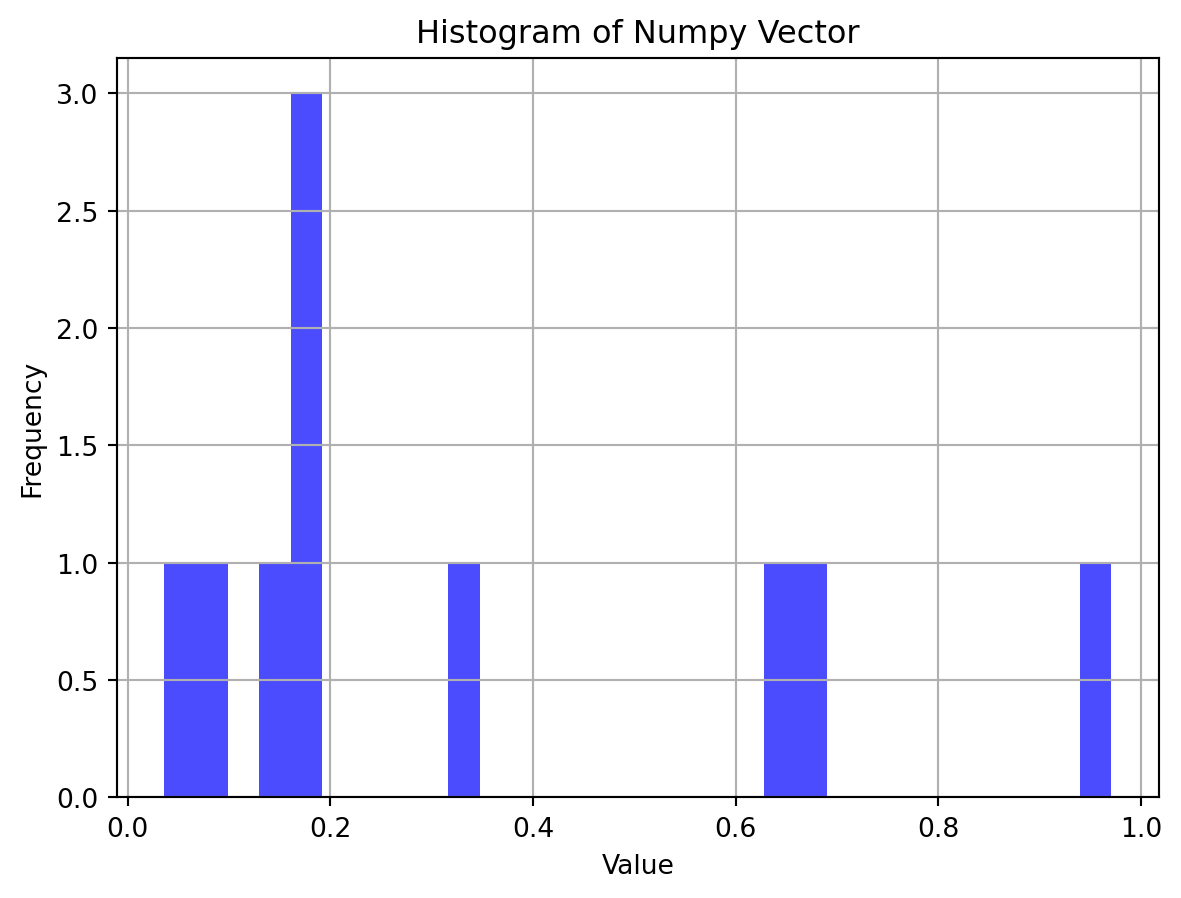
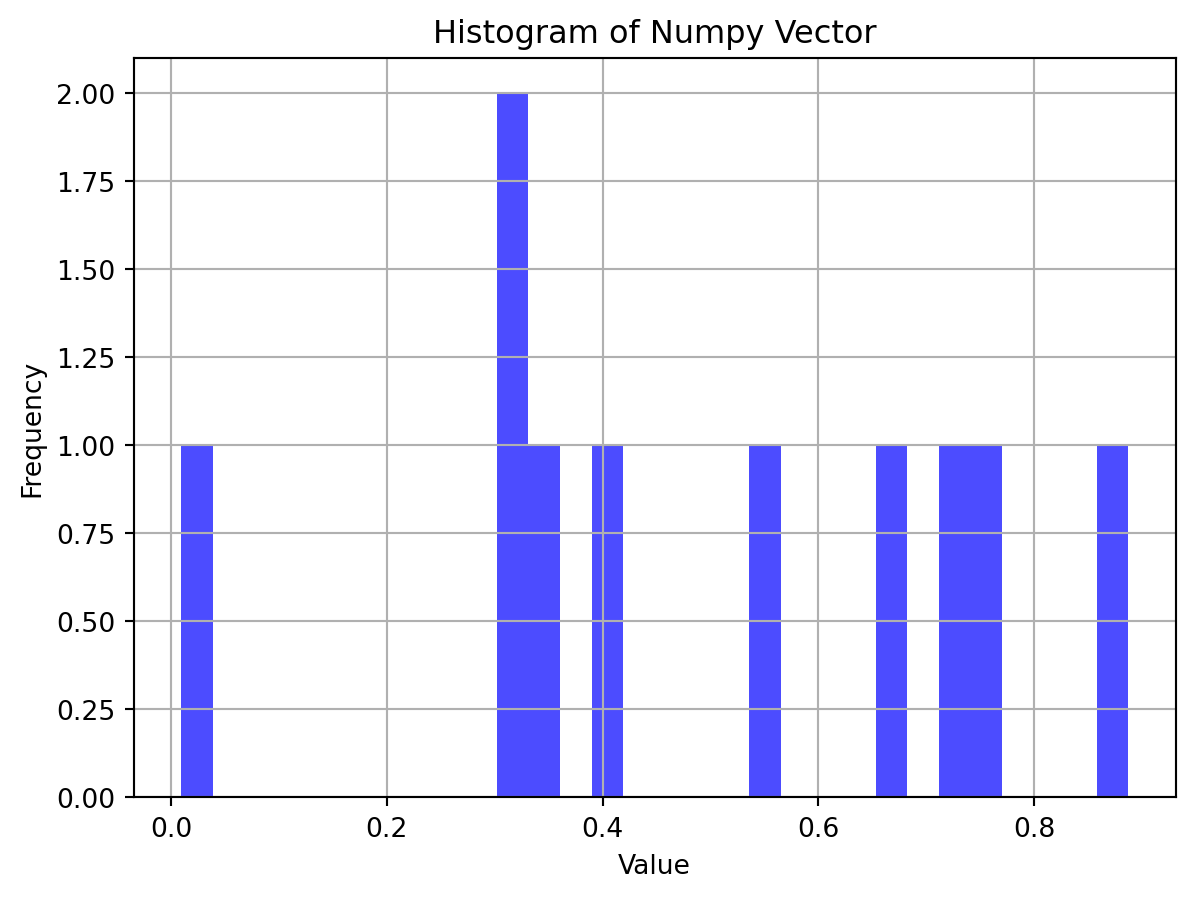
hw5

diff --git a/docs/posts/hw5/index.html b/docs/posts/hw5/index.html
@@ -6,8 +6,10 @@
 
 <meta name="viewport" content="width=device-width, initial-scale=1.0, user-scalable=yes">
 
+<meta name="author" content="권효은">
+<meta name="dcterms.date" content="2024-07-30">
 
-<title>testwebsite</title>
+<title>testwebsite - 숙제5</title>
 <style>
 code{white-space: pre-wrap;}
 span.smallcaps{font-variant: small-caps;}
@@ -57,21 +59,22 @@ pre > code.sourceCode > span > a:first-child::before { text-decoration: underlin
 </style>
 
 
-<script src="site_libs/quarto-nav/quarto-nav.js"></script>
-<script src="site_libs/quarto-nav/headroom.min.js"></script>
-<script src="site_libs/clipboard/clipboard.min.js"></script>
-<script src="site_libs/quarto-search/autocomplete.umd.js"></script>
-<script src="site_libs/quarto-search/fuse.min.js"></script>
-<script src="site_libs/quarto-search/quarto-search.js"></script>
-<meta name="quarto:offset" content="./">
-<script src="site_libs/quarto-html/quarto.js"></script>
-<script src="site_libs/quarto-html/popper.min.js"></script>
-<script src="site_libs/quarto-html/tippy.umd.min.js"></script>
-<link href="site_libs/quarto-html/tippy.css" rel="stylesheet">
-<link href="site_libs/quarto-html/quarto-syntax-highlighting.css" rel="stylesheet" id="quarto-text-highlighting-styles">
-<script src="site_libs/bootstrap/bootstrap.min.js"></script>
-<link href="site_libs/bootstrap/bootstrap-icons.css" rel="stylesheet">
-<link href="site_libs/bootstrap/bootstrap.min.css" rel="stylesheet" id="quarto-bootstrap" data-mode="light">
+<script src="../../site_libs/quarto-nav/quarto-nav.js"></script>
+<script src="../../site_libs/quarto-nav/headroom.min.js"></script>
+<script src="../../site_libs/clipboard/clipboard.min.js"></script>
+<script src="../../site_libs/quarto-search/autocomplete.umd.js"></script>
+<script src="../../site_libs/quarto-search/fuse.min.js"></script>
+<script src="../../site_libs/quarto-search/quarto-search.js"></script>
+<meta name="quarto:offset" content="../../">
+<script src="../../site_libs/quarto-html/quarto.js"></script>
+<script src="../../site_libs/quarto-html/popper.min.js"></script>
+<script src="../../site_libs/quarto-html/tippy.umd.min.js"></script>
+<script src="../../site_libs/quarto-html/anchor.min.js"></script>
+<link href="../../site_libs/quarto-html/tippy.css" rel="stylesheet">
+<link href="../../site_libs/quarto-html/quarto-syntax-highlighting.css" rel="stylesheet" id="quarto-text-highlighting-styles">
+<script src="../../site_libs/bootstrap/bootstrap.min.js"></script>
+<link href="../../site_libs/bootstrap/bootstrap-icons.css" rel="stylesheet">
+<link href="../../site_libs/bootstrap/bootstrap.min.css" rel="stylesheet" id="quarto-bootstrap" data-mode="light">
 <script id="quarto-search-options" type="application/json">{
   "location": "navbar",
   "copy-button": false,
@@ -101,17 +104,17 @@ pre > code.sourceCode > span > a:first-child::before { text-decoration: underlin
 }</script>
 
 
-<link rel="stylesheet" href="styles.css">
+<link rel="stylesheet" href="../../styles.css">
 </head>
 
-<body class="nav-fixed fullcontent">
+<body class="nav-fixed">
 
 <div id="quarto-search-results"></div>
-  <header id="quarto-header" class="headroom fixed-top">
+  <header id="quarto-header" class="headroom fixed-top quarto-banner">
     <nav class="navbar navbar-expand-lg " data-bs-theme="dark">
       <div class="navbar-container container-fluid">
       <div class="navbar-brand-container mx-auto">
-    <a class="navbar-brand" href="./index.html">
+    <a class="navbar-brand" href="../../index.html">
     <span class="navbar-title">testwebsite</span>
     </a>
   </div>
@@ -122,15 +125,15 @@ pre > code.sourceCode > span > a:first-child::before { text-decoration: underlin
           <div class="collapse navbar-collapse" id="navbarCollapse">
             <ul class="navbar-nav navbar-nav-scroll me-auto">
   <li class="nav-item">
-    <a class="nav-link active" href="./index.html" aria-current="page"> 
+    <a class="nav-link" href="../../index.html"> 
 <span class="menu-text">Home</span></a>
   </li>  
   <li class="nav-item">
-    <a class="nav-link" href="./about.html"> 
+    <a class="nav-link" href="../../about.html"> 
 <span class="menu-text">About</span></a>
   </li>  
   <li class="nav-item">
-    <a class="nav-link" href="./blog.html"> 
+    <a class="nav-link" href="../../blog.html"> 
 <span class="menu-text">Blog</span></a>
   </li>  
 </ul>
@@ -141,42 +144,125 @@ pre > code.sourceCode > span > a:first-child::before { text-decoration: underlin
     </nav>
 </header>
 <!-- content -->
-<div id="quarto-content" class="quarto-container page-columns page-rows-contents page-layout-article page-navbar">
+<header id="title-block-header" class="quarto-title-block default page-columns page-full">
+  <div class="quarto-title-banner page-columns page-full">
+    <div class="quarto-title column-body">
+      <h1 class="title">숙제5</h1>
+                                <div class="quarto-categories">
+                <div class="quarto-category">bigdata</div>
+              </div>
+                  </div>
+  </div>
+    
+  
+  <div class="quarto-title-meta">
+
+      <div>
+      <div class="quarto-title-meta-heading">Author</div>
+      <div class="quarto-title-meta-contents">
+               <p>권효은 </p>
+            </div>
+    </div>
+      
+      <div>
+      <div class="quarto-title-meta-heading">Published</div>
+      <div class="quarto-title-meta-contents">
+        <p class="date">July 30, 2024</p>
+      </div>
+    </div>
+    
+      
+    </div>
+    
+  
+  </header><div id="quarto-content" class="quarto-container page-columns page-rows-contents page-layout-article page-navbar">
 <!-- sidebar -->
 <!-- margin-sidebar -->
-    
+    <div id="quarto-margin-sidebar" class="sidebar margin-sidebar">
+        <nav id="TOC" role="doc-toc" class="toc-active">
+    <h2 id="toc-title">On this page</h2>
+   
+  <ul>
+  <li><a href="#chapter-9-2-설문-조사-그래프에서-각-성별-95-신뢰구간-계산-후-그리기" id="toc-chapter-9-2-설문-조사-그래프에서-각-성별-95-신뢰구간-계산-후-그리기" class="nav-link active" data-scroll-target="#chapter-9-2-설문-조사-그래프에서-각-성별-95-신뢰구간-계산-후-그리기">Chapter 9-2 설문 조사 그래프에서 각 성별 95% 신뢰구간 계산 후 그리기</a></li>
+  <li><a href="#norm.ppf-사용해서-그릴-것.-모분산은-표본-분산을-사용해서-추정" id="toc-norm.ppf-사용해서-그릴-것.-모분산은-표본-분산을-사용해서-추정" class="nav-link" data-scroll-target="#norm.ppf-사용해서-그릴-것.-모분산은-표본-분산을-사용해서-추정">norm.ppf() 사용해서 그릴 것. 모분산은 표본 분산을 사용해서 추정</a></li>
+  <li><a href="#위-아래-수직-막대기로-표시" id="toc-위-아래-수직-막대기로-표시" class="nav-link" data-scroll-target="#위-아래-수직-막대기로-표시">위 아래 수직 막대기로 표시</a></li>
+  </ul>
+</nav>
+    </div>
 <!-- main -->
-<div class="quarto-about-jolla content">
- <header id="title-block-header" class="quarto-title-block default">
-<div class="quarto-title">
-<h1 class="title">testwebsite</h1>
+<main class="content quarto-banner-title-block" id="quarto-document-content">
+
+
+
+
+
+<section id="chapter-9-2-설문-조사-그래프에서-각-성별-95-신뢰구간-계산-후-그리기" class="level3">
+<h3 class="anchored" data-anchor-id="chapter-9-2-설문-조사-그래프에서-각-성별-95-신뢰구간-계산-후-그리기">Chapter 9-2 설문 조사 그래프에서 각 성별 95% 신뢰구간 계산 후 그리기</h3>
+</section>
+<section id="norm.ppf-사용해서-그릴-것.-모분산은-표본-분산을-사용해서-추정" class="level3">
+<h3 class="anchored" data-anchor-id="norm.ppf-사용해서-그릴-것.-모분산은-표본-분산을-사용해서-추정">norm.ppf() 사용해서 그릴 것. 모분산은 표본 분산을 사용해서 추정</h3>
+</section>
+<section id="위-아래-수직-막대기로-표시" class="level3">
+<h3 class="anchored" data-anchor-id="위-아래-수직-막대기로-표시">위 아래 수직 막대기로 표시</h3>
+<div id="af809979" class="cell" data-execution_count="1">
+<div class="sourceCode cell-code" id="cb1"><pre class="sourceCode python code-with-copy"><code class="sourceCode python"><span id="cb1-1"><a href="#cb1-1" aria-hidden="true" tabindex="-1"></a><span class="im">import</span> pandas <span class="im">as</span> pd</span>
+<span id="cb1-2"><a href="#cb1-2" aria-hidden="true" tabindex="-1"></a><span class="im">import</span> numpy <span class="im">as</span> np</span>
+<span id="cb1-3"><a href="#cb1-3" aria-hidden="true" tabindex="-1"></a><span class="im">import</span> seaborn <span class="im">as</span> sns</span>
+<span id="cb1-4"><a href="#cb1-4" aria-hidden="true" tabindex="-1"></a><span class="im">import</span> matplotlib.pyplot <span class="im">as</span> plt</span>
+<span id="cb1-5"><a href="#cb1-5" aria-hidden="true" tabindex="-1"></a><span class="im">from</span> scipy.stats <span class="im">import</span> norm</span>
+<span id="cb1-6"><a href="#cb1-6" aria-hidden="true" tabindex="-1"></a></span>
+<span id="cb1-7"><a href="#cb1-7" aria-hidden="true" tabindex="-1"></a>raw_welfare <span class="op">=</span> pd.read_spss(<span class="st">"Koweps_hpwc14_2019_beta2.sav"</span>)</span>
+<span id="cb1-8"><a href="#cb1-8" aria-hidden="true" tabindex="-1"></a>welfare <span class="op">=</span> raw_welfare.copy()</span>
+<span id="cb1-9"><a href="#cb1-9" aria-hidden="true" tabindex="-1"></a></span>
+<span id="cb1-10"><a href="#cb1-10" aria-hidden="true" tabindex="-1"></a>welfare <span class="op">=</span> welfare.rename(columns <span class="op">=</span> { <span class="st">'h14_g3'</span> : <span class="st">'sex'</span> , <span class="st">'p1402_8aq1'</span> : <span class="st">'income'</span>})</span>
+<span id="cb1-11"><a href="#cb1-11" aria-hidden="true" tabindex="-1"></a>welfare <span class="op">=</span> welfare[[<span class="st">'sex'</span>, <span class="st">'income'</span>]]</span>
+<span id="cb1-12"><a href="#cb1-12" aria-hidden="true" tabindex="-1"></a>welfare[<span class="st">"sex"</span>] <span class="op">=</span> np.where(welfare[<span class="st">"sex"</span>] <span class="op">==</span> <span class="dv">1</span>, <span class="st">'male'</span>, <span class="st">'female'</span>)</span>
+<span id="cb1-13"><a href="#cb1-13" aria-hidden="true" tabindex="-1"></a>sex_income <span class="op">=</span> welfare.dropna(subset <span class="op">=</span> <span class="st">"income"</span>).groupby(<span class="st">"sex"</span>, as_index <span class="op">=</span> <span class="va">False</span>).agg(mean_income <span class="op">=</span> (<span class="st">"income"</span>, <span class="st">"mean"</span>))</span>
+<span id="cb1-14"><a href="#cb1-14" aria-hidden="true" tabindex="-1"></a></span>
+<span id="cb1-15"><a href="#cb1-15" aria-hidden="true" tabindex="-1"></a>sns.barplot(data <span class="op">=</span> sex_income, x <span class="op">=</span> <span class="st">"sex"</span>, y <span class="op">=</span> <span class="st">"mean_income"</span>, hue <span class="op">=</span> <span class="st">"sex"</span>)</span>
+<span id="cb1-16"><a href="#cb1-16" aria-hidden="true" tabindex="-1"></a>plt.show()</span></code><button title="Copy to Clipboard" class="code-copy-button"><i class="bi"></i></button></pre></div>
+<div class="cell-output cell-output-display">
+<div>
+<figure class="figure">
+<p><img src="index_files/figure-html/cell-2-output-1.png" width="593" height="429" class="figure-img"></p>
+</figure>
 </div>
-<div class="quarto-title-meta">
-  </div>
-</header><main class="content" id="quarto-document-content">
-<p>This is a Quarto website.</p>
-<section id="홈페이지-첫-화면" class="level2">
-<h2 data-anchor-id="홈페이지-첫-화면">홈페이지 첫 화면</h2>
-<p>To learn more about Quarto websites visit <a href="https://quarto.org/docs/websites" class="uri">https://quarto.org/docs/websites</a>.</p>
-<div id="6b43cc2d" class="cell" data-execution_count="1">
-<div class="sourceCode cell-code" id="cb1"><pre class="sourceCode python code-with-copy"><code class="sourceCode python"><span id="cb1-1"><a href="#cb1-1" aria-hidden="true" tabindex="-1"></a><span class="dv">1</span> <span class="op">+</span> <span class="dv">1</span></span></code><button title="Copy to Clipboard" class="code-copy-button"><i class="bi"></i></button></pre></div>
-<div class="cell-output cell-output-display" data-execution_count="1">
-<pre><code>2</code></pre>
+</div>
+</div>
+<div id="2faf8520" class="cell" data-execution_count="2">
+<div class="sourceCode cell-code" id="cb2"><pre class="sourceCode python code-with-copy"><code class="sourceCode python"><span id="cb2-1"><a href="#cb2-1" aria-hidden="true" tabindex="-1"></a>female_mu <span class="op">=</span> sex_income[<span class="st">"mean_income"</span>][<span class="dv">0</span>]</span>
+<span id="cb2-2"><a href="#cb2-2" aria-hidden="true" tabindex="-1"></a>male_mu <span class="op">=</span> sex_income[<span class="st">"mean_income"</span>][<span class="dv">1</span>]</span>
+<span id="cb2-3"><a href="#cb2-3" aria-hidden="true" tabindex="-1"></a></span>
+<span id="cb2-4"><a href="#cb2-4" aria-hidden="true" tabindex="-1"></a>female_x <span class="op">=</span> welfare.loc[welfare[<span class="st">"sex"</span>] <span class="op">==</span> <span class="st">"female"</span>][<span class="st">"income"</span>].dropna()</span>
+<span id="cb2-5"><a href="#cb2-5" aria-hidden="true" tabindex="-1"></a>male_x <span class="op">=</span> welfare.loc[welfare[<span class="st">"sex"</span>] <span class="op">==</span> <span class="st">"male"</span>][<span class="st">"income"</span>].dropna()</span>
+<span id="cb2-6"><a href="#cb2-6" aria-hidden="true" tabindex="-1"></a></span>
+<span id="cb2-7"><a href="#cb2-7" aria-hidden="true" tabindex="-1"></a>female_var <span class="op">=</span> np.var(female_x, ddof <span class="op">=</span> <span class="dv">1</span>)</span>
+<span id="cb2-8"><a href="#cb2-8" aria-hidden="true" tabindex="-1"></a>male_var <span class="op">=</span> np.var(male_x, ddof <span class="op">=</span> <span class="dv">1</span>)</span>
+<span id="cb2-9"><a href="#cb2-9" aria-hidden="true" tabindex="-1"></a></span>
+<span id="cb2-10"><a href="#cb2-10" aria-hidden="true" tabindex="-1"></a>z <span class="op">=</span> norm.ppf(<span class="fl">0.95</span>, loc <span class="op">=</span> <span class="dv">0</span>, scale <span class="op">=</span> <span class="dv">1</span>)</span>
+<span id="cb2-11"><a href="#cb2-11" aria-hidden="true" tabindex="-1"></a>female_l <span class="op">=</span> female_mu <span class="op">-</span> (z <span class="op">*</span> np.sqrt(female_var) <span class="op">/</span> np.sqrt(<span class="bu">len</span>(female_x)))</span>
+<span id="cb2-12"><a href="#cb2-12" aria-hidden="true" tabindex="-1"></a>female_r <span class="op">=</span> female_mu <span class="op">+</span> (z <span class="op">*</span> np.sqrt(female_var) <span class="op">/</span> np.sqrt(<span class="bu">len</span>(female_x)))</span>
+<span id="cb2-13"><a href="#cb2-13" aria-hidden="true" tabindex="-1"></a>male_l <span class="op">=</span> male_mu <span class="op">-</span> (z <span class="op">*</span> np.sqrt(male_var) <span class="op">/</span> np.sqrt(<span class="bu">len</span>(male_x)))</span>
+<span id="cb2-14"><a href="#cb2-14" aria-hidden="true" tabindex="-1"></a>male_r <span class="op">=</span> male_mu <span class="op">+</span> (z <span class="op">*</span> np.sqrt(male_var) <span class="op">/</span> np.sqrt(<span class="bu">len</span>(male_x)))</span>
+<span id="cb2-15"><a href="#cb2-15" aria-hidden="true" tabindex="-1"></a></span>
+<span id="cb2-16"><a href="#cb2-16" aria-hidden="true" tabindex="-1"></a>sns.barplot(data <span class="op">=</span> sex_income, x <span class="op">=</span> <span class="st">"sex"</span>, y <span class="op">=</span> <span class="st">"mean_income"</span>, hue <span class="op">=</span> <span class="st">"sex"</span>)</span>
+<span id="cb2-17"><a href="#cb2-17" aria-hidden="true" tabindex="-1"></a>plt.vlines(x <span class="op">=</span> <span class="st">"female"</span>, ymin <span class="op">=</span> female_l, ymax <span class="op">=</span> female_r, colors <span class="op">=</span> <span class="st">"red"</span>)</span>
+<span id="cb2-18"><a href="#cb2-18" aria-hidden="true" tabindex="-1"></a>plt.vlines(x <span class="op">=</span> <span class="st">"male"</span>, ymin <span class="op">=</span> male_l, ymax <span class="op">=</span> male_r, colors <span class="op">=</span> <span class="st">"blue"</span>)</span>
+<span id="cb2-19"><a href="#cb2-19" aria-hidden="true" tabindex="-1"></a></span>
+<span id="cb2-20"><a href="#cb2-20" aria-hidden="true" tabindex="-1"></a>plt.show()</span></code><button title="Copy to Clipboard" class="code-copy-button"><i class="bi"></i></button></pre></div>
+<div class="cell-output cell-output-display">
+<div>
+<figure class="figure">
+<p><img src="index_files/figure-html/cell-3-output-1.png" width="593" height="429" class="figure-img"></p>
+</figure>
+</div>
 </div>
 </div>
 
 
 </section>
-</main> 
-  <hr class="about-sep">
-   <div class="about-links">
-  <a href="https://github.com/H-yoEunK" class="about-link" rel="" target="">
-    <i class="bi bi-github"></i>
-     <span class="about-link-text">Github</span>
-  </a>
-</div>
-</div>
- <!-- /main -->
+
+</main> <!-- /main -->
 <script id="quarto-html-after-body" type="application/javascript">
 window.document.addEventListener("DOMContentLoaded", function (event) {
   const toggleBodyColorMode = (bsSheetEl) => {
@@ -197,6 +283,13 @@ window.document.addEventListener("DOMContentLoaded", function (event) {
     }
   }
   toggleBodyColorPrimary();  
+  const icon = "";
+  const anchorJS = new window.AnchorJS();
+  anchorJS.options = {
+    placement: 'right',
+    icon: icon
+  };
+  anchorJS.add('.anchored');
   const isCodeAnnotation = (el) => {
     for (const clz of el.classList) {
       if (clz.startsWith('code-annotation-')) {                     

diff --git a/docs/study/1.html b/docs/study/1.html
@@ -176,36 +176,36 @@ pre > code.sourceCode > span > a:first-child::before { text-decoration: underlin
 </header>
 
 
-<div id="230d8b14" class="cell" data-execution_count="1">
+<div id="769f6da1" class="cell" data-execution_count="1">
 <div class="sourceCode cell-code" id="cb1"><pre class="sourceCode python code-with-copy"><code class="sourceCode python"><span id="cb1-1"><a href="#cb1-1" aria-hidden="true" tabindex="-1"></a><span class="im">import</span> numpy <span class="im">as</span> np</span>
 <span id="cb1-2"><a href="#cb1-2" aria-hidden="true" tabindex="-1"></a><span class="im">import</span> matplotlib.pyplot <span class="im">as</span> plt</span></code><button title="Copy to Clipboard" class="code-copy-button"><i class="bi"></i></button></pre></div>
 </div>
-<div id="fb42c1c9" class="cell" data-execution_count="2">
+<div id="d50ac13d" class="cell" data-execution_count="2">
 <div class="sourceCode cell-code" id="cb2"><pre class="sourceCode python code-with-copy"><code class="sourceCode python"><span id="cb2-1"><a href="#cb2-1" aria-hidden="true" tabindex="-1"></a>np.random.rand(<span class="dv">1</span>)</span></code><button title="Copy to Clipboard" class="code-copy-button"><i class="bi"></i></button></pre></div>
 <div class="cell-output cell-output-display" data-execution_count="2">
-<pre><code>array([0.85067869])</code></pre>
+<pre><code>array([0.9263501])</code></pre>
 </div>
 </div>
 <p>랜덤 상수 하나 생성 (0 ~ 1)</p>
-<div id="b7f50480" class="cell" data-execution_count="3">
+<div id="eb6cbbd5" class="cell" data-execution_count="3">
 <div class="sourceCode cell-code" id="cb4"><pre class="sourceCode python code-with-copy"><code class="sourceCode python"><span id="cb4-1"><a href="#cb4-1" aria-hidden="true" tabindex="-1"></a><span class="kw">def</span> Y(num, p):</span>
 <span id="cb4-2"><a href="#cb4-2" aria-hidden="true" tabindex="-1"></a>  x <span class="op">=</span> np.random.rand(num)</span>
 <span id="cb4-3"><a href="#cb4-3" aria-hidden="true" tabindex="-1"></a>  <span class="cf">return</span> np.where(x <span class="op">&lt;</span> p, <span class="dv">1</span>, <span class="dv">0</span>)</span>
 <span id="cb4-4"><a href="#cb4-4" aria-hidden="true" tabindex="-1"></a></span>
 <span id="cb4-5"><a href="#cb4-5" aria-hidden="true" tabindex="-1"></a>Y(<span class="dv">10</span>, <span class="fl">0.5</span>)</span></code><button title="Copy to Clipboard" class="code-copy-button"><i class="bi"></i></button></pre></div>
 <div class="cell-output cell-output-display" data-execution_count="3">
-<pre><code>array([1, 0, 0, 1, 1, 1, 1, 1, 1, 1])</code></pre>
+<pre><code>array([1, 0, 0, 0, 1, 0, 1, 1, 0, 0])</code></pre>
 </div>
 </div>
 <p>베르누이 확률 변수 p 만드는 함수</p>
-<div id="15373e56" class="cell" data-execution_count="4">
+<div id="518501be" class="cell" data-execution_count="4">
 <div class="sourceCode cell-code" id="cb6"><pre class="sourceCode python code-with-copy"><code class="sourceCode python"><span id="cb6-1"><a href="#cb6-1" aria-hidden="true" tabindex="-1"></a><span class="kw">def</span> Z():</span>
 <span id="cb6-2"><a href="#cb6-2" aria-hidden="true" tabindex="-1"></a>  x <span class="op">=</span> np.random.rand(<span class="dv">1</span>)</span>
 <span id="cb6-3"><a href="#cb6-3" aria-hidden="true" tabindex="-1"></a>  <span class="cf">return</span> np.where(x <span class="op">&lt;</span> <span class="fl">0.2</span>, <span class="dv">0</span>, np.where(x <span class="op">&lt;</span> <span class="fl">0.7</span>, <span class="dv">1</span>, <span class="dv">2</span>))</span>
 <span id="cb6-4"><a href="#cb6-4" aria-hidden="true" tabindex="-1"></a></span>
 <span id="cb6-5"><a href="#cb6-5" aria-hidden="true" tabindex="-1"></a>Z()[<span class="dv">0</span>]</span></code><button title="Copy to Clipboard" class="code-copy-button"><i class="bi"></i></button></pre></div>
 <div class="cell-output cell-output-display" data-execution_count="4">
-<pre><code>0</code></pre>
+<pre><code>1</code></pre>
 </div>
 </div>
 <p>가질 수 있는 값: 0, 1, 2</p>
@@ -213,7 +213,7 @@ pre > code.sourceCode > span > a:first-child::before { text-decoration: underlin
 <p><code>np.where(condition, [x, y, ]/)</code>: 조건에 따라 선택된 요소를 반환</p>
 <section id="stat2" class="level3">
 <h3 class="anchored" data-anchor-id="stat2">stat2</h3>
-<div id="e2bdf773" class="cell" data-execution_count="5">
+<div id="ac5a98fe" class="cell" data-execution_count="5">
 <div class="sourceCode cell-code" id="cb8"><pre class="sourceCode python code-with-copy"><code class="sourceCode python"><span id="cb8-1"><a href="#cb8-1" aria-hidden="true" tabindex="-1"></a>data <span class="op">=</span> np.random.rand(<span class="dv">10</span>)</span>
 <span id="cb8-2"><a href="#cb8-2" aria-hidden="true" tabindex="-1"></a>plt.hist(data, bins <span class="op">=</span> <span class="dv">30</span>, alpha <span class="op">=</span> <span class="fl">0.7</span>, color <span class="op">=</span> <span class="st">"blue"</span>)</span>
 <span id="cb8-3"><a href="#cb8-3" aria-hidden="true" tabindex="-1"></a>plt.title(<span class="st">'Histogram of Numpy Vector'</span>)</span>
@@ -224,7 +224,7 @@ pre > code.sourceCode > span > a:first-child::before { text-decoration: underlin
 <div class="cell-output cell-output-display">
 <div>
 <figure class="figure">
-<p><img src="1_files/figure-html/cell-6-output-1.png" width="591" height="449" class="figure-img"></p>
+<p><img src="1_files/figure-html/cell-6-output-1.png" width="597" height="449" class="figure-img"></p>
 </figure>
 </div>
 </div>
@@ -232,20 +232,20 @@ pre > code.sourceCode > span > a:first-child::before { text-decoration: underlin
 <p><code>matplotlib.pyplot.hist(x, bins, range, density, weights, cumulativee, bottom, histtype='bar', align='mid', orientation='vertical', rwidth, log, color, label, stacked, *, data, **kwargs)</code></p>
 <p><code>bins</code>: 가로축 구간의 개수</p>
 <p><code>alpha</code>: 투명도</p>
-<div id="dc26d3f4" class="cell" data-execution_count="6">
+<div id="c5de25db" class="cell" data-execution_count="6">
 <div class="sourceCode cell-code" id="cb9"><pre class="sourceCode python code-with-copy"><code class="sourceCode python"><span id="cb9-1"><a href="#cb9-1" aria-hidden="true" tabindex="-1"></a><span class="bu">print</span>(np.random.rand(<span class="dv">50000</span>).reshape(<span class="op">-</span><span class="dv">1</span>, <span class="dv">5</span>))</span>
 <span id="cb9-2"><a href="#cb9-2" aria-hidden="true" tabindex="-1"></a></span>
 <span id="cb9-3"><a href="#cb9-3" aria-hidden="true" tabindex="-1"></a>mean <span class="op">=</span> np.random.rand(<span class="dv">50000</span>).reshape(<span class="op">-</span><span class="dv">1</span>, <span class="dv">5</span>).mean(axis <span class="op">=</span> <span class="dv">1</span>)</span>
 <span id="cb9-4"><a href="#cb9-4" aria-hidden="true" tabindex="-1"></a>plt.hist(mean, color <span class="op">=</span> <span class="st">'red'</span>)</span>
 <span id="cb9-5"><a href="#cb9-5" aria-hidden="true" tabindex="-1"></a>plt.show()</span></code><button title="Copy to Clipboard" class="code-copy-button"><i class="bi"></i></button></pre></div>
 <div class="cell-output cell-output-stdout">
-<pre><code>[[0.64477511 0.91403148 0.10325662 0.18867058 0.43236832]
- [0.00521373 0.19646995 0.8145599  0.2097239  0.21309707]
- [0.9777463  0.78227045 0.45545333 0.61221334 0.83245628]
+<pre><code>[[0.02025505 0.78416005 0.62103856 0.52231985 0.30310415]
+ [0.5348515  0.65671204 0.11814685 0.68545446 0.53731303]
+ [0.08261554 0.57165281 0.85254945 0.65570668 0.59031308]
  ...
- [0.48498109 0.83108408 0.51344464 0.96845567 0.28902907]
- [0.76904988 0.09365468 0.77893706 0.76064696 0.49359719]
- [0.32074148 0.63011237 0.94599423 0.23052853 0.18030512]]</code></pre>
+ [0.869667   0.30960476 0.25279889 0.64376433 0.42554539]
+ [0.1337504  0.15575997 0.90961583 0.03386298 0.42343372]
+ [0.39854412 0.84434568 0.14991629 0.70689568 0.9983759 ]]</code></pre>
 </div>
 <div class="cell-output cell-output-display">
 <div>
@@ -257,7 +257,7 @@ pre > code.sourceCode > span > a:first-child::before { text-decoration: underlin
 </div>
 <p>5개 뽑아서 10000번 반복하고 그 표본평균을 히스토그램으로 쌓아서 경향 파악</p>
 <p>5개를 10000번 반복하는 걸 50000개 뽑는 걸로 합치고, 구분하기 위해 <code>reshape(row, column)</code></p>
-<div id="083c7bf7" class="cell" data-execution_count="7">
+<div id="544605e4" class="cell" data-execution_count="7">
 <div class="sourceCode cell-code" id="cb11"><pre class="sourceCode python code-with-copy"><code class="sourceCode python"><span id="cb11-1"><a href="#cb11-1" aria-hidden="true" tabindex="-1"></a>np.unique((np.arange(<span class="dv">33</span>) <span class="op">-</span> <span class="dv">16</span>) <span class="op">**</span><span class="dv">2</span>)</span></code><button title="Copy to Clipboard" class="code-copy-button"><i class="bi"></i></button></pre></div>
 <div class="cell-output cell-output-display" data-execution_count="7">
 <pre><code>array([  0,   1,   4,   9,  16,  25,  36,  49,  64,  81, 100, 121, 144,
@@ -265,7 +265,7 @@ pre > code.sourceCode > span > a:first-child::before { text-decoration: underlin
 </div>
 </div>
 <p><code>numpy.unique(ar)</code>: 중복된 값을 제거</p>
-<div id="41bf9948" class="cell" data-execution_count="8">
+<div id="f33a562b" class="cell" data-execution_count="8">
 <div class="sourceCode cell-code" id="cb13"><pre class="sourceCode python code-with-copy"><code class="sourceCode python"><span id="cb13-1"><a href="#cb13-1" aria-hidden="true" tabindex="-1"></a>x <span class="op">=</span> np.arange(<span class="dv">4</span>)</span>
 <span id="cb13-2"><a href="#cb13-2" aria-hidden="true" tabindex="-1"></a>pro_x <span class="op">=</span> np.array([<span class="dv">1</span><span class="op">/</span><span class="dv">6</span>, <span class="dv">2</span><span class="op">/</span><span class="dv">6</span>, <span class="dv">2</span><span class="op">/</span><span class="dv">6</span>, <span class="dv">1</span><span class="op">/</span><span class="dv">6</span>])</span>
 <span id="cb13-3"><a href="#cb13-3" aria-hidden="true" tabindex="-1"></a></span>
@@ -282,7 +282,7 @@ pre > code.sourceCode > span > a:first-child::before { text-decoration: underlin
 </div>
 </div>
 <p>X = 0, 1, 2, 3이고 확률이 1/6, 2/6, 2/6, 1/6일 때 분산</p>
-<div id="ca9a223e" class="cell" data-execution_count="9">
+<div id="b13d68af" class="cell" data-execution_count="9">
 <div class="sourceCode cell-code" id="cb15"><pre class="sourceCode python code-with-copy"><code class="sourceCode python"><span id="cb15-1"><a href="#cb15-1" aria-hidden="true" tabindex="-1"></a>x <span class="op">=</span> np.arange(<span class="dv">99</span>)</span>
 <span id="cb15-2"><a href="#cb15-2" aria-hidden="true" tabindex="-1"></a>arr <span class="op">=</span> np.concatenate((np.arange(<span class="dv">1</span>, <span class="dv">50</span>), np.arange(<span class="dv">50</span>, <span class="dv">0</span>, <span class="op">-</span><span class="dv">1</span>)))</span>
 <span id="cb15-3"><a href="#cb15-3" aria-hidden="true" tabindex="-1"></a>pro_x <span class="op">=</span> arr <span class="op">/</span> <span class="dv">2500</span></span>
